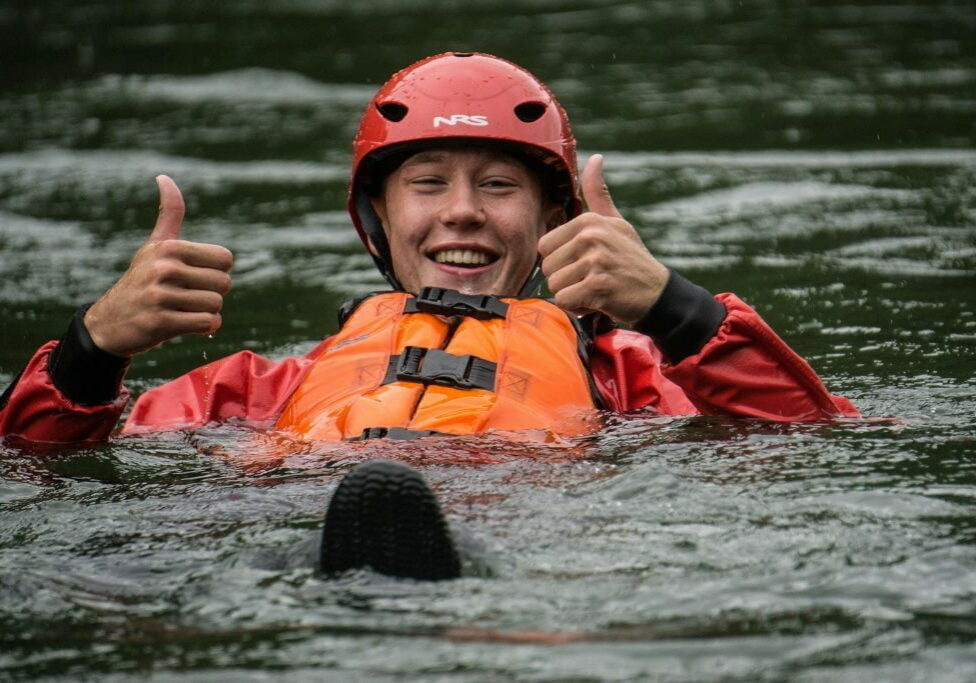
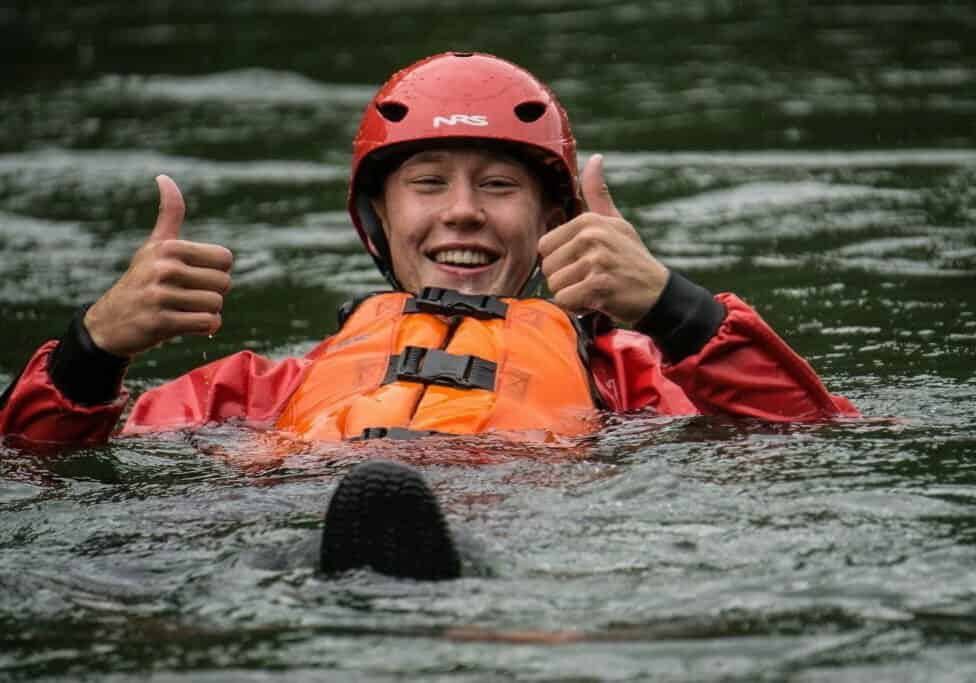
update images

diff --git a/wwr/about.html b/wwr/about.html
@@ -22,7 +22,7 @@
     </header>
     <main>
         <div class="hero">
-            <img src="images/hero-about.webp" alt="Rafting adventure in a river">
+            <img src="images/hero-about.jpg" alt="Rafting adventure in a river">
             <h1>Whitewater Rafting Company Name</h1>
             <article>
                 <img src="images/happy-client.jpg" alt="Happy client on a rafting trip">
